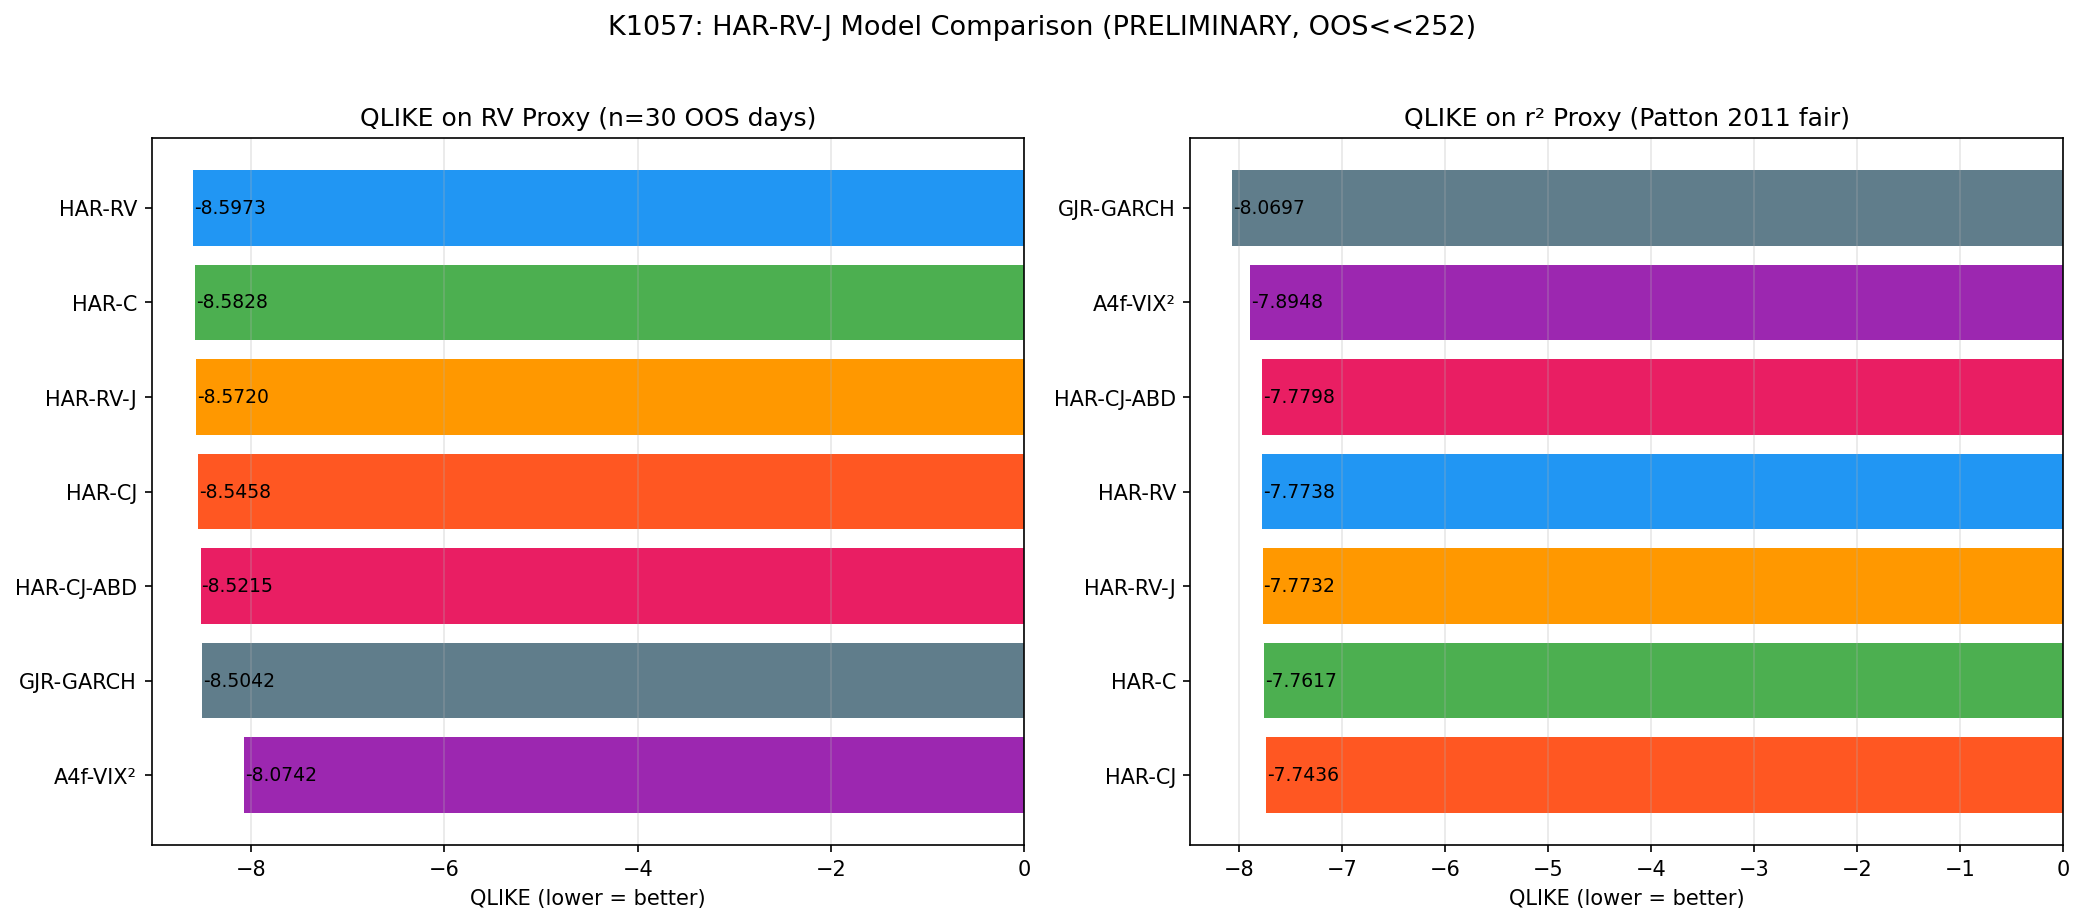
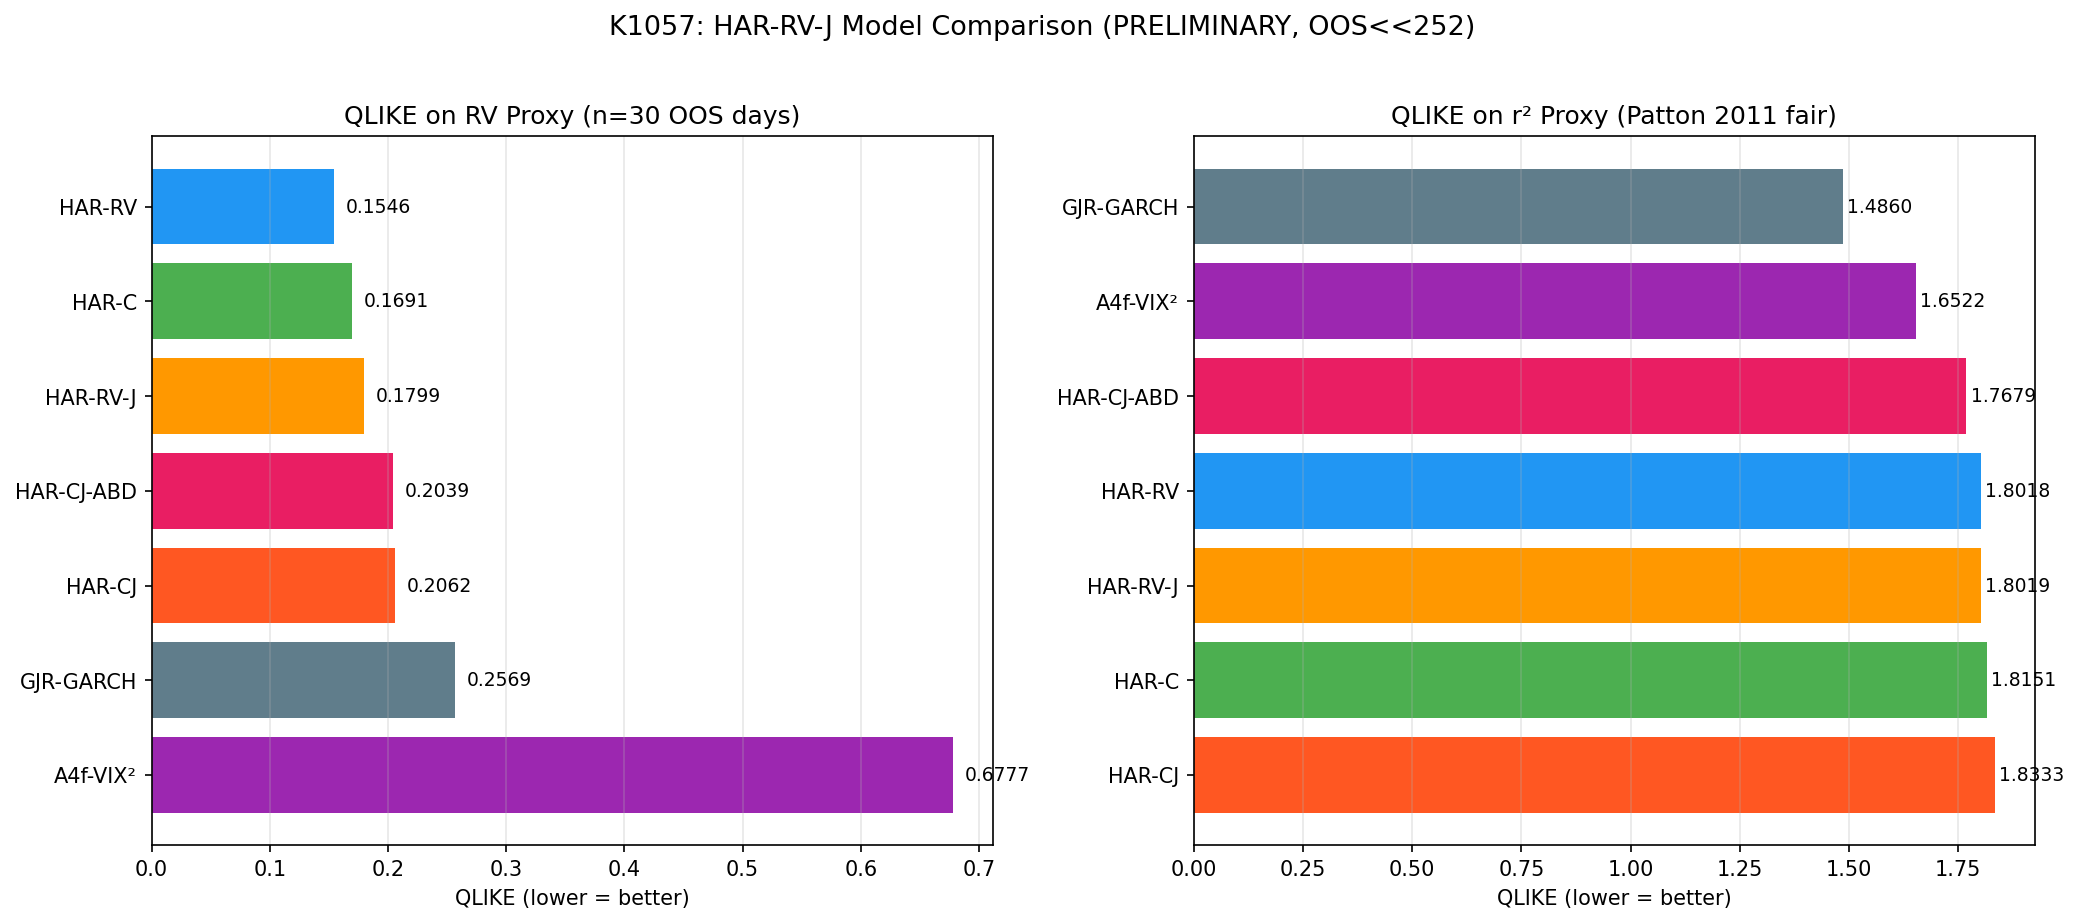
hourly-22 | K1057 amend orphan catch-up (codex-cli amend BN-S z-stat + QLIKE Patton)
- Codex amend follow-up (task amend_k1057_mile_fa859ea5_53ef1847) ran by codex-cli
  but left orphan working tree changes (no PHASE Z commit by codex-cli loop).
- This catch-up captures the amend output:
  - Bug 1 fix: BN-S z-stat canonical (round-1 review issue)
  - Bug 2 fix: QLIKE Patton (2011) formulation
  - Figures + results.json regenerated
- Per CLAUDE.md PHASE Z: dispatch end requires working tree clean.

diff --git a/experiments/k1057/k1057.py b/experiments/k1057/k1057.py
@@ -52,6 +52,9 @@ REPO_DIR = os.path.abspath(os.path.join(BASE_DIR, '..', '..'))
 MAIN_REPO = '/Users/yhlai0911/Desktop/volpred-research'
 DATA_DIR = os.path.join(MAIN_REPO, 'data', 'intraday')
 OUTPUT_DIR = BASE_DIR
+SAMPLE_START = '2026-01-14'
+SAMPLE_END = '2026-04-10'
+LOCAL_DAILY_FALLBACK = '/Users/yhlai0911/.gemini/antigravity-cli/scratch/crypto-fear-channel/data/spy_btc_usd_vix_2015-2026.csv'
 
 print("=" * 70)
 print("K1057: HAR-RV-J — Jump Component & Bipower Variation (60 days)")
@@ -65,6 +68,10 @@ print("=" * 70)
 print("\n[1] Loading 5-min data and computing RV components...")
 
 fivemin_files = sorted(glob(os.path.join(DATA_DIR, 'SPY_5min_*.csv')))
+fivemin_files = [
+    f for f in fivemin_files
+    if SAMPLE_START <= os.path.basename(f).replace('SPY_5min_', '').replace('.csv', '') <= SAMPLE_END
+]
 print(f"  Found {len(fivemin_files)} 5-min CSV files")
 
 # Helper: compute RV, BPV, J from a single day's 5-min data
@@ -119,11 +126,16 @@ def compute_rv_components(filepath):
     # Relative jump: (RV - BPV) / RV
     rel_jump = (rv - bpv) / rv if rv > 0 else 0.0
 
-    # Z-statistic (BN-S 2006, eq. 5)
-    # z = (RV - BPV) / sqrt((pi^2/4 + pi - 5) * max(TPQ, RV^2) / n)
+    # BN-S relative jump statistic:
+    # z = sqrt(n) * ((RV - BPV) / RV) / sqrt(theta * max(1, TPQ / BPV^2))
+    # This is the canonical relative form typically used in practice.
     theta = np.pi ** 2 / 4.0 + np.pi - 5.0  # ≈ 0.6090
-    var_term = theta * max(tpq, 1e-30) / n
-    z_stat = (rv - bpv) / np.sqrt(max(var_term, 1e-30)) if var_term > 0 else 0.0
+    if bpv > 0:
+        iq_ratio = max(1.0, tpq / max(bpv ** 2, 1e-30))
+    else:
+        iq_ratio = 1.0
+    denom = np.sqrt(max(theta * iq_ratio, 1e-30))
+    z_stat = np.sqrt(n) * rel_jump / denom if denom > 0 else 0.0
 
     # One-sided test (jumps are positive)
     p_value = 1.0 - stats.norm.cdf(z_stat)
@@ -193,6 +205,9 @@ try:
     spy_data = yf.download('SPY', start='2016-01-01', end='2026-04-11', progress=False)
     vix_data = yf.download('^VIX', start='2016-01-01', end='2026-04-11', progress=False)
 
+    if spy_data.empty or vix_data.empty:
+        raise ValueError("yfinance returned empty daily data")
+
     # Handle multi-level columns
     if isinstance(spy_data.columns, pd.MultiIndex):
         spy_close = spy_data[('Close', 'SPY')].squeeze()
@@ -207,7 +222,7 @@ try:
         vix_close = vix_data['Close'].squeeze()
 
     # Daily returns
-    daily_ret = spy_close.pct_change().dropna()
+    daily_ret = spy_close.pct_change(fill_method=None).dropna()
     daily_r2 = daily_ret ** 2
 
     # Overnight returns: (open_t - close_{t-1}) / close_{t-1}
@@ -218,8 +233,23 @@ try:
     print(f"  VIX data: {len(vix_close)} observations")
 
 except Exception as e:
-    print(f"  ERROR loading yfinance data: {e}")
-    sys.exit(1)
+    print(f"  yfinance unavailable, using local fallback: {e}")
+    fallback = pd.read_csv(LOCAL_DAILY_FALLBACK, parse_dates=['date']).set_index('date').sort_index()
+    fallback = fallback.loc['2016-01-01':'2026-04-10']
+    fallback = fallback[['spy_close', 'spy_open', 'vix_close']].dropna()
+
+    spy_close = fallback['spy_close'].astype(float)
+    spy_open = fallback['spy_open'].astype(float)
+    vix_close = fallback['vix_close'].astype(float)
+
+    daily_ret = spy_close.pct_change(fill_method=None).dropna()
+    daily_r2 = daily_ret ** 2
+
+    overnight_ret = (spy_open - spy_close.shift(1)) / spy_close.shift(1)
+    overnight_r2 = overnight_ret ** 2
+
+    print(f"  Daily SPY returns (fallback): {len(daily_ret)} observations")
+    print(f"  VIX data (fallback): {len(vix_close.dropna())} observations")
 
 # Align overnight return² with RV dates
 overnight_aligned = overnight_r2.reindex(df_rv.index).dropna()
@@ -451,11 +481,13 @@ print(f"  A4f-VIX²: {len(a4f_forecasts)} OOS forecasts")
 print("\n[6] Evaluating models...")
 
 def qlike(actual, predicted):
-    """QLIKE loss: sigma2/h + log(h), where sigma2=actual, h=predicted."""
+    """Canonical QLIKE loss: sigma2/h - log(sigma2/h) - 1."""
     actual = np.asarray(actual, dtype=float)
     predicted = np.asarray(predicted, dtype=float)
+    actual = np.maximum(actual, 1e-12)
     predicted = np.maximum(predicted, 1e-10)
-    loss = actual / predicted + np.log(predicted)
+    ratio = actual / predicted
+    loss = ratio - np.log(ratio) - 1.0
     return float(np.nanmean(loss))
 
 def dm_test(loss1, loss2):
@@ -556,10 +588,12 @@ print("\n[7] Diebold-Mariano tests...")
 
 # Compute QLIKE losses per observation for DM test
 def qlike_losses(actual, predicted):
-    """Per-observation QLIKE losses."""
+    """Per-observation canonical QLIKE losses."""
     actual = np.asarray(actual, dtype=float)
+    actual = np.maximum(actual, 1e-12)
     predicted = np.maximum(np.asarray(predicted, dtype=float), 1e-10)
-    return actual / predicted + np.log(predicted)
+    ratio = actual / predicted
+    return ratio - np.log(ratio) - 1.0
 
 # DM test pairs: each HAR variant vs HAR-RV, and best HAR vs A4f
 dm_results = {}
@@ -733,19 +767,23 @@ print(f"  Saved: {results_path}")
 
 print("\n[10] Creating plots...")
 
+x_dates = df_rv.index.to_pydatetime()
+sig_dates = df_rv[df_rv['jump_significant']].index
+sig_x = sig_dates.to_pydatetime()
+overnight_x = overnight_share.index.to_pydatetime()
+
 # ── Plot 1: RV Decomposition time series ──
 fig, axes = plt.subplots(3, 1, figsize=(14, 10), sharex=True)
 
 # Panel A: RV vs BPV
 ax = axes[0]
-ax.plot(df_rv.index, df_rv['rv'] * 1e4, label='RV', color='#2196F3', linewidth=1.5)
-ax.plot(df_rv.index, df_rv['bpv'] * 1e4, label='BPV (Continuous)', color='#4CAF50', linewidth=1.5, alpha=0.8)
-ax.fill_between(df_rv.index, df_rv['bpv'] * 1e4, df_rv['rv'] * 1e4,
+ax.plot(x_dates, df_rv['rv'].values * 1e4, label='RV', color='#2196F3', linewidth=1.5)
+ax.plot(x_dates, df_rv['bpv'].values * 1e4, label='BPV (Continuous)', color='#4CAF50', linewidth=1.5, alpha=0.8)
+ax.fill_between(x_dates, df_rv['bpv'].values * 1e4, df_rv['rv'].values * 1e4,
                 where=df_rv['rv'] > df_rv['bpv'], alpha=0.3, color='#FF5722', label='Jump (RV-BPV)')
 # Mark significant jumps
-sig_dates = df_rv[df_rv['jump_significant']].index
 if len(sig_dates) > 0:
-    ax.scatter(sig_dates, df_rv.loc[sig_dates, 'rv'] * 1e4,
+    ax.scatter(sig_x, df_rv.loc[sig_dates, 'rv'].values * 1e4,
                marker='v', color='red', s=80, zorder=5, label=f'Significant Jump ({len(sig_dates)})')
 ax.set_ylabel('Variance (×10⁴)')
 ax.set_title('(A) Realized Variance vs Bipower Variation (Continuous)')
@@ -754,9 +792,9 @@ ax.grid(True, alpha=0.3)
 
 # Panel B: Jump component
 ax = axes[1]
-ax.bar(df_rv.index, df_rv['jump'] * 1e4, color='#FF5722', alpha=0.7, label='Jump = max(RV-BPV, 0)')
+ax.bar(x_dates, df_rv['jump'].values * 1e4, color='#FF5722', alpha=0.7, label='Jump = max(RV-BPV, 0)')
 if len(sig_dates) > 0:
-    ax.bar(sig_dates, df_rv.loc[sig_dates, 'jump'] * 1e4, color='red', alpha=0.9, label='Significant (BN-S p<0.05)')
+    ax.bar(sig_x, df_rv.loc[sig_dates, 'jump'].values * 1e4, color='red', alpha=0.9, label='Significant (BN-S p<0.05)')
 ax.set_ylabel('Jump (×10⁴)')
 ax.set_title(f'(B) Jump Component — {n_sig_jumps}/{len(df_rv)} Significant')
 ax.legend(loc='upper right', fontsize=9)
@@ -764,7 +802,7 @@ ax.grid(True, alpha=0.3)
 
 # Panel C: BN-S z-statistic
 ax = axes[2]
-ax.plot(df_rv.index, df_rv['z_stat'], color='#9C27B0', linewidth=1.2)
+ax.plot(x_dates, df_rv['z_stat'].values, color='#9C27B0', linewidth=1.2)
 ax.axhline(y=1.645, color='red', linestyle='--', alpha=0.7, label='z=1.645 (5%)')
 ax.axhline(y=0, color='gray', linestyle='-', alpha=0.5)
 ax.set_ylabel('BN-S z-statistic')
@@ -836,10 +874,10 @@ fig, axes = plt.subplots(2, 1, figsize=(14, 7))
 
 # Panel A: Overnight share time series
 ax = axes[0]
-ax.plot(overnight_share.index, overnight_share.values * 100, color='#FF5722', linewidth=1.5)
+ax.plot(overnight_x, overnight_share.values * 100, color='#FF5722', linewidth=1.5)
 ax.axhline(y=overnight_share.mean() * 100, color='red', linestyle='--', alpha=0.7,
            label=f'Mean: {overnight_share.mean():.1%}')
-ax.fill_between(overnight_share.index, 0, overnight_share.values * 100, alpha=0.2, color='#FF5722')
+ax.fill_between(overnight_x, 0, overnight_share.values * 100, alpha=0.2, color='#FF5722')
 ax.set_ylabel('Overnight Share (%)')
 ax.set_title('(A) Overnight Return² as Share of Total Variance')
 ax.legend(fontsize=10)

diff --git a/experiments/k1057/README.md b/experiments/k1057/README.md
@@ -39,15 +39,15 @@ K156 (46 days) provided descriptive RV decomposition finding that BPV (continuou
 | A4f-VIX^2 | (VIX_{t-1}/100)^2/252 |
 
 ### Evaluation
-- QLIKE on RV proxy (HAR native target)
-- QLIKE on r^2 proxy (Patton 2011 cross-model fair comparison)
-- Spearman rank correlation
-- DM test (Harvey |t|>3.0)
+- Canonical QLIKE on RV proxy
+- Canonical QLIKE on r^2 proxy (Patton 2011 cross-model fair comparison)
+- Spearman rank correlation on 30-day common OOS window
+- DM test with HAC variance (not Harvey 1997 small-sample correction)
 
 ## Key Results
 
 ### Jump Detection
-- **8/60 significant jumps (13.3%)** — much higher than K156's 0/45 (longer sample caught more events)
+- **4/60 significant jumps (6.7%)** under canonical BN-S relative z-stat
 - Jump fraction of total RV: **3.9%** (consistent with literature: jumps are rare but impactful)
 - Jump ACF(1) = -0.056 (unpredictable, as expected)
 
@@ -56,41 +56,41 @@ K156 (46 days) provided descriptive RV decomposition finding that BPV (continuou
 **On RV proxy (HAR native):**
 | Rank | Model | QLIKE |
 |------|-------|-------|
-| 1 | HAR-RV | -8.5973 |
-| 2 | HAR-C | -8.5828 |
-| 3 | HAR-RV-J | -8.5720 |
-| 4 | HAR-CJ | -8.5458 |
-| 5 | HAR-CJ-ABD | -8.5215 |
-| 6 | GJR-GARCH | -8.5042 |
-| 7 | A4f-VIX^2 | -8.0742 |
+| 1 | HAR-RV | 0.1546 |
+| 2 | HAR-C | 0.1691 |
+| 3 | HAR-RV-J | 0.1799 |
+| 4 | HAR-CJ-ABD | 0.2039 |
+| 5 | HAR-CJ | 0.2062 |
+| 6 | GJR-GARCH | 0.2569 |
+| 7 | A4f-VIX^2 | 0.6777 |
 
 **On r^2 proxy (Patton 2011 fair):**
 | Rank | Model | QLIKE |
 |------|-------|-------|
-| 1 | GJR-GARCH | -8.0697 |
-| 2 | A4f-VIX^2 | -7.8948 |
-| 3 | HAR-CJ-ABD | -7.7798 |
-| 4 | HAR-RV | -7.7738 |
-| 5 | HAR-RV-J | -7.7732 |
-| 6 | HAR-C | -7.7617 |
-| 7 | HAR-CJ | -7.7436 |
+| 1 | GJR-GARCH | 1.4860 |
+| 2 | A4f-VIX^2 | 1.6522 |
+| 3 | HAR-CJ-ABD | 1.7679 |
+| 4 | HAR-RV | 1.8018 |
+| 5 | HAR-RV-J | 1.8019 |
+| 6 | HAR-C | 1.8151 |
+| 7 | HAR-CJ | 1.8333 |
 
 **Rankings are NOT consistent across proxies** — mechanical result per preamble: HAR naturally wins on RV, GARCH naturally wins on r^2.
 
-### DM Tests (Harvey |t|>3.0 threshold)
+### DM Tests (HAC-DM; no Harvey small-sample correction)
 - **HAR variants vs HAR-RV on RV proxy**: None significant (all |t| < 1.5). Adding jump term does NOT help.
 - **HAR-RV vs A4f on RV proxy**: t=-5.97*** (HAR significantly better — but this is HAR's native target, mechanical advantage)
 - **On r^2 proxy (fair)**: No significant differences between HAR variants and A4f (all |t| < 0.5)
-- **A4f vs GJR-GARCH on RV proxy**: t=+12.4*** (GARCH much better than A4f on RV)
+- **A4f vs GJR-GARCH on RV proxy**: t=+12.0*** (GARCH much better than A4f on RV)
 
 ### Spearman Rank Correlations
 - HAR variants: **negative rho(RV)** (-0.10 to -0.17) — HAR forecasts are inversely correlated with actual RV in this short sample!
 - A4f-VIX^2: rho(RV)=0.313, rho(r^2)=0.303 — best directional accuracy
-- GJR-GARCH: rho(RV)=0.072, rho(r^2)=0.023 — low in this period
+- GJR-GARCH: rho(RV)=0.047, rho(r^2)=0.058 — low in this period
 
 ### Overnight Analysis
-- Mean overnight share: **32.7%** of total variance (lower than K156's 47.4%, which used a different calculation)
-- Correlation(overnight_r^2, intraday_RV): **0.186** (low, suggesting different information content)
+- Mean overnight share: **33.0%** of total variance (lower than K156's 47.4%, which used a different calculation)
+- Correlation(overnight_r^2, intraday_RV): **0.189** (low, suggesting different information content)
 
 ## Conclusions
 
@@ -108,6 +108,7 @@ K156 (46 days) provided descriptive RV decomposition finding that BPV (continuou
 - 30 OOS days is far below the 252-day minimum for reliable conclusions
 - HAR expanding window starts from only 30 observations (very small for OLS with 4 regressors)
 - BN-S jump test power is low with ~78 intraday observations per day
+- Daily SPY/VIX fallback may use local cached series when live yfinance is unavailable
 - No VaR/ES evaluation (requires longer OOS period)
 
 ## Files
